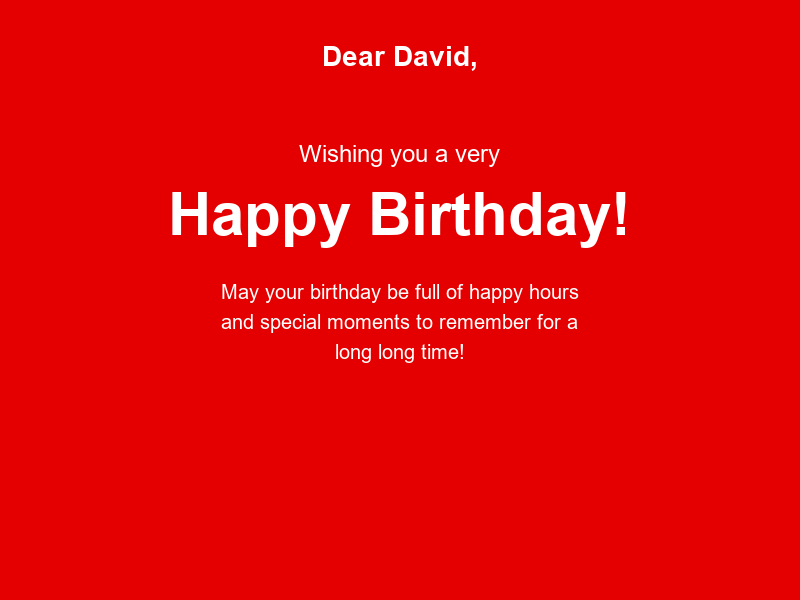
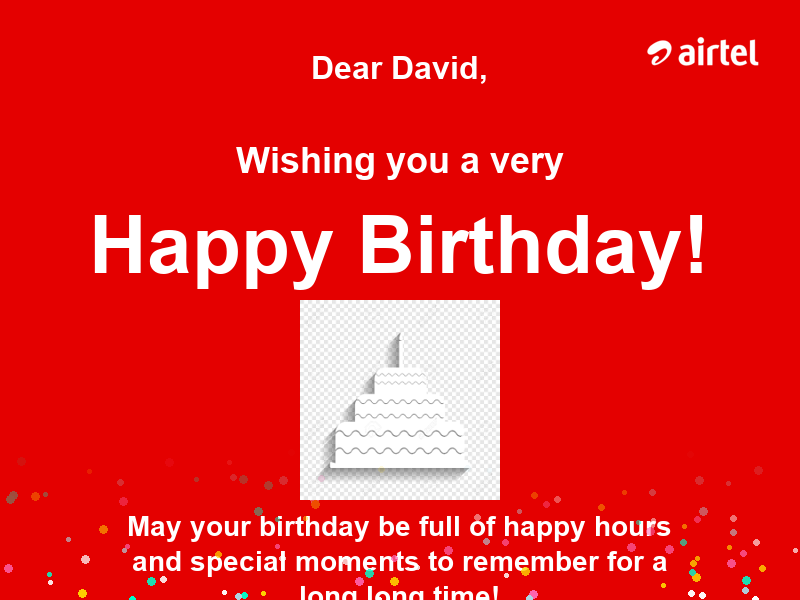
visual changes

diff --git a/birthday_generator.py b/birthday_generator.py
@@ -60,7 +60,7 @@ class BirthdayImageGenerator:
         return birthday_employees
         
     def create_birthday_image(self, name):
-        """Create a personalized Airtel-red themed birthday image"""
+        """Create a personalized Airtel-themed birthday image with larger logo, cake, and gradient confetti"""
         from PIL import ImageFont
 
         # Image size
@@ -68,51 +68,87 @@ class BirthdayImageGenerator:
         img = Image.new('RGB', (width, height), color='#e40000')
         draw = ImageDraw.Draw(img)
 
-        # Load fonts
+        # Load bold/enlarged fonts
         try:
-            header_font = ImageFont.truetype("arial.ttf", 24)
-            main_font = ImageFont.truetype("arialbd.ttf", 60)
-            sub_font = ImageFont.truetype("arial.ttf", 20)
-            name_font = ImageFont.truetype("arialbd.ttf", 28)
+            header_font = ImageFont.truetype("arialbd.ttf", 36)  # Bold header
+            main_font = ImageFont.truetype("arialbd.ttf", 80)    # Bold main message
+            sub_font = ImageFont.truetype("arialbd.ttf", 28)     # Sub-message
+            name_font = ImageFont.truetype("arialbd.ttf", 32)    # Name
         except:
             header_font = ImageFont.load_default()
             main_font = ImageFont.load_default()
             sub_font = ImageFont.load_default()
             name_font = ImageFont.load_default()
 
-        # Draw "Dear <name>" at the top
+        # Airtel logo (top-right) - Larger
+        try:
+            logo = Image.open("airtel_logo.png").convert("RGBA")
+            logo.thumbnail((150, 150))  # Bigger logo
+            img.paste(logo, (width - logo.width - 20, 20), mask=logo)
+        except Exception as e:
+            print(f"Could not load Airtel logo: {e}")
+
+        # Draw "Dear <name>"
         dear_text = f"Dear {name},"
         dear_bbox = draw.textbbox((0, 0), dear_text, font=name_font)
         dear_w = dear_bbox[2] - dear_bbox[0]
-        draw.text(((width - dear_w) // 2, 40), dear_text, fill="white", font=name_font)
+        draw.text(((width - dear_w) // 2, 50), dear_text, fill="white", font=name_font)
 
-        # Draw "Wishing you a very"
+        # "Wishing you a very"
         header_text = "Wishing you a very"
         header_bbox = draw.textbbox((0, 0), header_text, font=header_font)
         header_w = header_bbox[2] - header_bbox[0]
         draw.text(((width - header_w) // 2, 140), header_text, fill="white", font=header_font)
 
-        # Draw "Happy Birthday!"
+        # "Happy Birthday!"
         main_text = "Happy Birthday!"
         main_bbox = draw.textbbox((0, 0), main_text, font=main_font)
         main_w = main_bbox[2] - main_bbox[0]
-        draw.text(((width - main_w) // 2, 180), main_text, fill="white", font=main_font)
+        draw.text(((width - main_w) // 2, 200), main_text, fill="white", font=main_font)
 
-        # Draw sub-message
+        # Add Cake image (larger)
+        try:
+            cake = Image.open("cake.png").convert("RGBA")
+            cake.thumbnail((200, 200))
+            cake_x = (width - cake.width) // 2
+            cake_y = 300
+            img.paste(cake, (cake_x, cake_y), mask=cake)
+            y = cake_y + cake.height + 10
+        except Exception as e:
+            print(f"Could not load cake image: {e}")
+            y = 330
+
+        # Sub-message
         message = (
             "May your birthday be full of happy hours\n"
             "and special moments to remember for a\n"
             "long long time!"
         )
-        lines = message.split('\n')
-        y = 280
-        for line in lines:
+        for line in message.split('\n'):
             line_bbox = draw.textbbox((0, 0), line, font=sub_font)
             line_w = line_bbox[2] - line_bbox[0]
             draw.text(((width - line_w) // 2, y), line, fill="white", font=sub_font)
-            y += 30
+            y += 35
 
-        return img
+        # Add confetti (gradient, soft, sparse)
+        import random
+        confetti_colors = ['#ffffff', '#ffd700', '#00ffcc', '#ff69b4', '#add8e6']
+        confetti_img = Image.new('RGBA', img.size, (255, 0, 0, 0))
+        confetti_draw = ImageDraw.Draw(confetti_img)
+
+        for _ in range(100):  # Reduced count
+            x = random.randint(0, width)
+            y = random.randint(height - 150, height)
+            r = random.randint(2, 4)
+            color = random.choice(confetti_colors)
+            alpha = int(255 * (y - (height - 150)) / 150)  # Gradient opacity
+            confetti_color = tuple(int(color[i:i+2], 16) for i in (1, 3, 5)) + (alpha,)
+            confetti_draw.ellipse((x - r, y - r, x + r, y + r), fill=confetti_color)
+
+        # Merge confetti with main image
+        img = Image.alpha_composite(img.convert('RGBA'), confetti_img)
+
+        return img.convert('RGB')  # Return RGB image for saving/sending
 
 
     
@@ -132,12 +168,12 @@ class BirthdayImageGenerator:
                     <h2>Happy Birthday, {first_name}!</h2>
                     <p>Dear {full_name},</p>
                     <p>We hope your special day is filled with happiness, laughter, and joy!</p>
-                    <p>Best wishes from everyone in the {department} department and the entire team!</p>
+                    <p>Best wishes from everyone from Bharti Airtel Family!</p>
                     <br>
                     <img src="cid:birthday_image" alt="Birthday Wishes" style="max-width: 100%; height: auto;">
                     <br><br>
                     <p>Have a wonderful birthday!</p>
-                    <p>Warm regards,<br>The Team</p>
+                    <p>Warm regards,<br>CEO,<br> Bharti Airtel</p>
                 </body>
             </html>
             """
